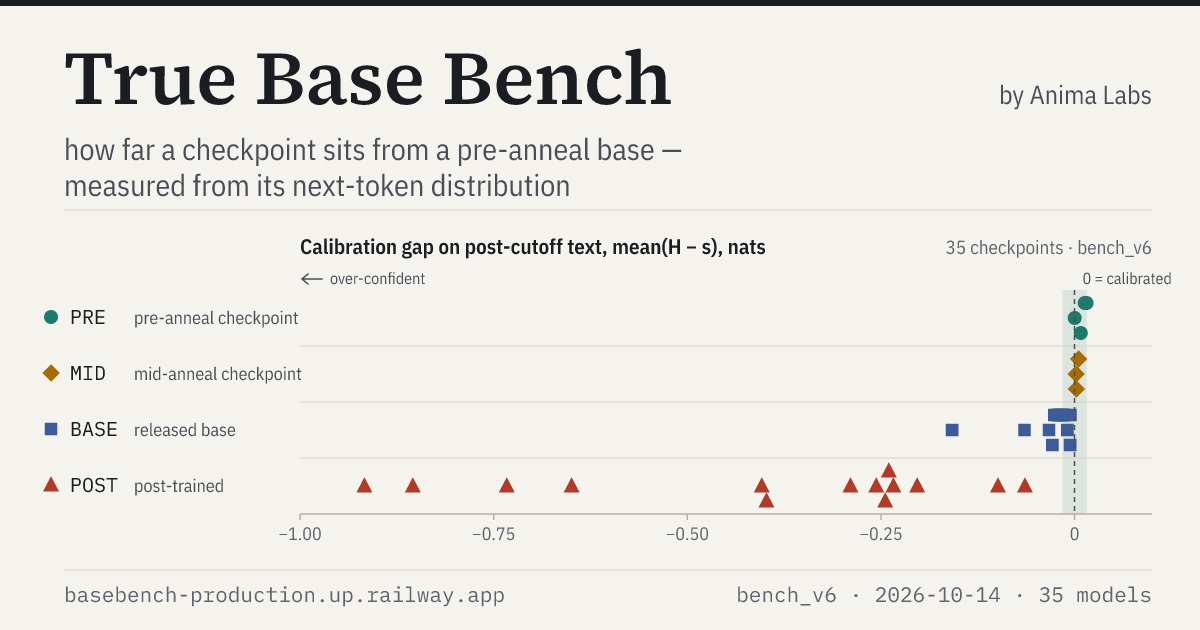
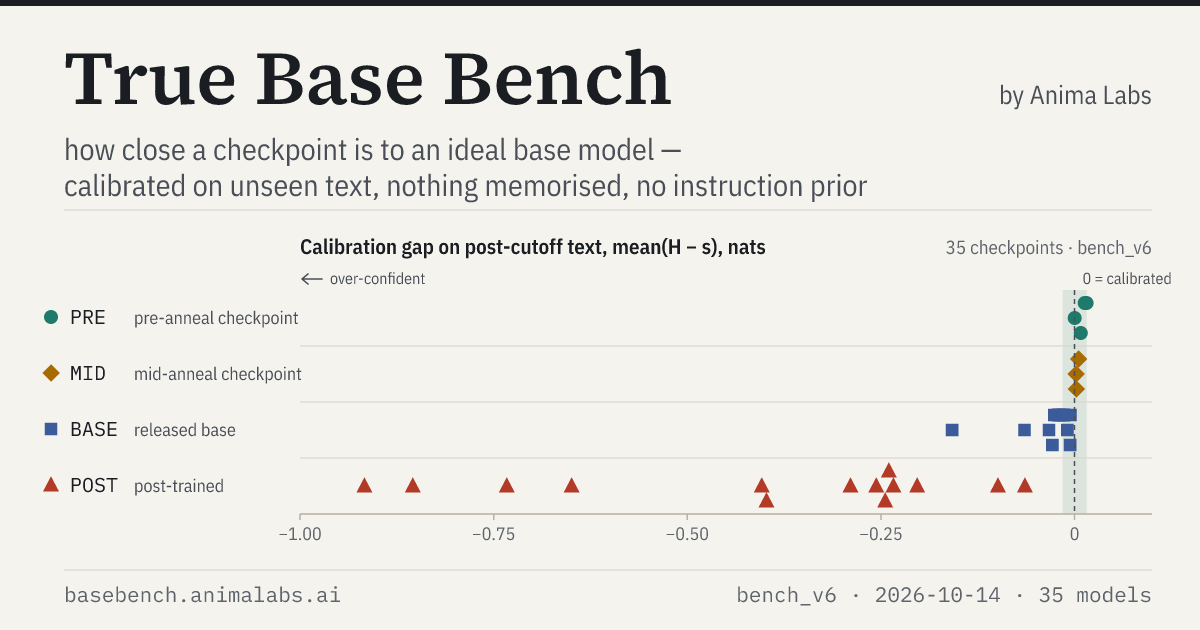
copy: the ideal is a property of the distribution, pre-anneal checkpoints are its empirical anchor; card and description reworded; URL -> basebench.animalabs.ai

Changed region(s): [[0.0617, 0.2111, 0.74, 0.3317], [0.1542, 0.9349, 0.4317, 0.9651]]

diff --git a/site/src/content/about.md b/site/src/content/about.md
@@ -1,12 +1,12 @@
 # About
 
-True Base Bench is a public, permanent benchmark that measures how far a language-model checkpoint sits from a pre-anneal pretraining base: a checkpoint from the long constant-learning-rate phase of pretraining, before the anneal, mid-training mixes and any post-training. It is built and maintained by [Anima Labs](https://github.com/anima-research).
+True Base Bench is a public, permanent benchmark that measures how close a language-model checkpoint is to an ideal base model: one whose next-token distribution is an honest density model of text — calibrated on text it has never seen, with nothing memorised beyond its training distribution and no instruction-shaped prior. No reference checkpoint defines that ideal; it is a property of the distribution. Empirically, checkpoints from the long constant-learning-rate phase of pretraining (before the anneal, mid-training mixes and any post-training) sit at it, which is why they set the anchors of the score. It is built and maintained by [Anima Labs](https://github.com/anima-research).
 
 ## What it is for {#purpose}
 
 "Base model" has stopped meaning one thing. Released bases are often annealed on curated, instruction-heavy or synthetic mixes, distilled from a larger model, or both. For research that depends on a model trained toward the data and nothing else (interpretability, studies of the pretraining distribution, simulation, uses of base-model sampling that rely on its full diversity), the label on the checkpoint is not enough.
 
-The bench gives that question a measurement. It does not score capability; it scores distance from a pre-anneal base, and which end of that axis you want depends on what you are using the checkpoint for. A score of 1 means the checkpoint is indistinguishable from a pre-anneal base on the four features measured, nothing more. Whether that is what you want depends on what you are using the model for.
+The bench gives that question a measurement. It does not score capability; it scores distance from that ideal, and which end of the axis you want depends on what you are using the checkpoint for. A score of 1 means the checkpoint is indistinguishable, on the four features measured, from a pre-anneal checkpoint — the empirical stand-in for the ideal — and nothing more.
 
 ## How it works, briefly {#how}
 
